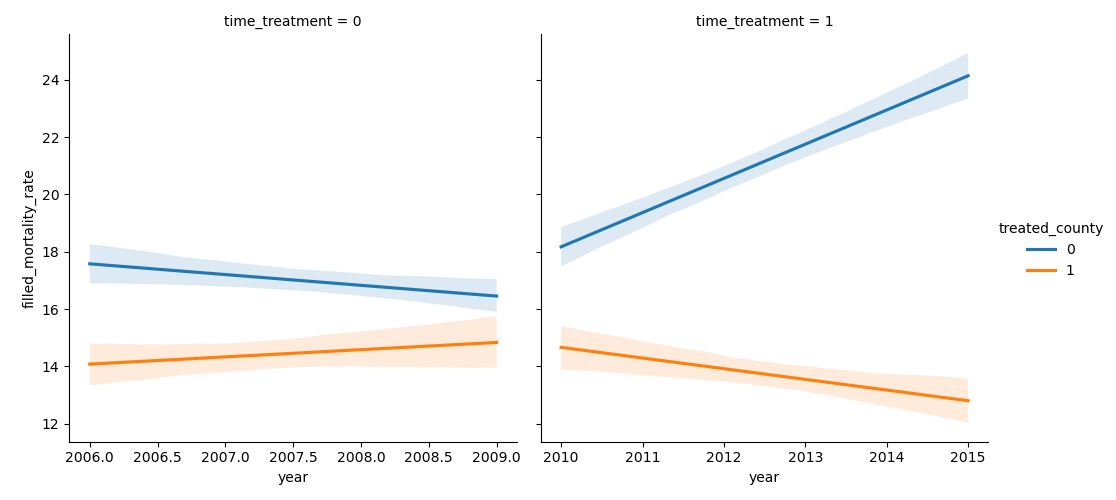
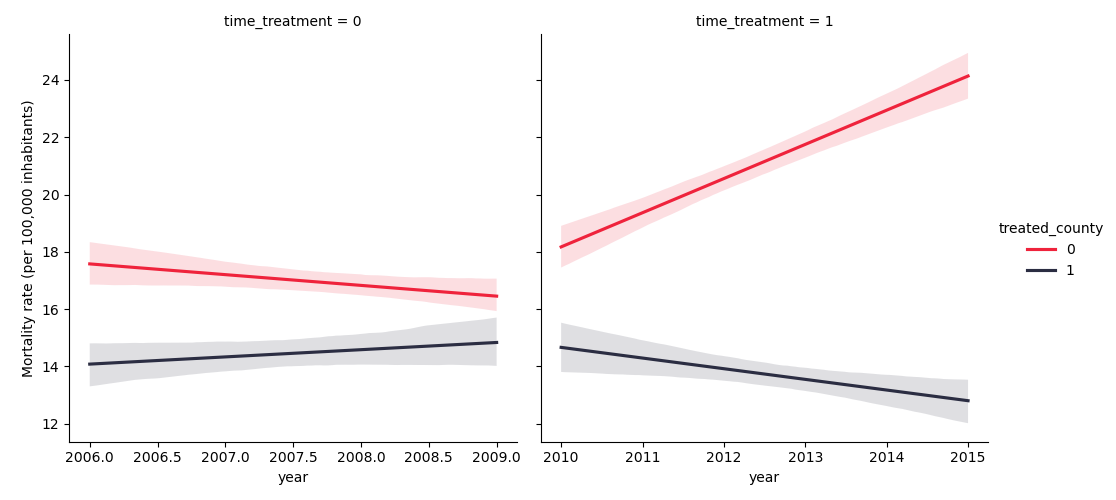
changing axes names

diff --git a/10_code/50_analyze_data.py b/10_code/50_analyze_data.py
@@ -68,7 +68,7 @@ for state in ["FL", "WA"]:
 
     for var in variables:
         # plotting morphine per person over time nad its linear regression before treatment
-        sns.lmplot(
+        g = sns.lmplot(
             x="year",
             y=var,
             hue="treated_county",
@@ -78,7 +78,13 @@ for state in ["FL", "WA"]:
             scatter=False,
             facet_kws=dict(sharex=False),
         )
-        plt.savefig("../30_results/diff_diff_" + state + "_" + var + ".png")
+
+        if var == "morphine_pp":
+            g.set_ylabels("Morphine bought per person (mg)")
+        else:
+            g.set_ylabels("Mortality rate (per 100,000 inhabitants)")
+
+        g.fig.savefig("../30_results/diff_diff_" + state + "_" + var + ".png")
 
     ######## TEXAS ######### biweekly Analysis
 
@@ -197,7 +203,7 @@ import matplotlib.dates as mdates
 
 texas_df["date_num"] = mdates.date2num(texas_df["date"])
 
-sns.lmplot(
+g = sns.lmplot(
     x="date_num",
     y="morphine_pp",
     hue="treated_county",
@@ -207,4 +213,14 @@ sns.lmplot(
     scatter=False,
     facet_kws=dict(sharex=False),
 )
+
+# Adjust x-axis date formatting
+date_format = mdates.DateFormatter("%Y-%m")  # You can adjust the format as needed
+g.set_xticklabels([], rotation=45)
+g.set_ylabels("Morphine bought per person (mg)")
+
+for ax in g.axes.flat:
+    ax.xaxis.set_major_formatter(date_format)
+    ax.set_xlabel("Date")
+
 plt.savefig("../30_results/diff_diff_TX_morphine_pp.png")
